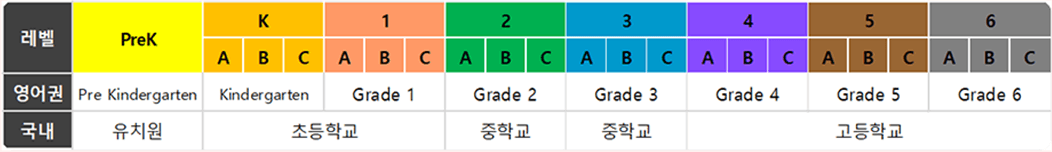
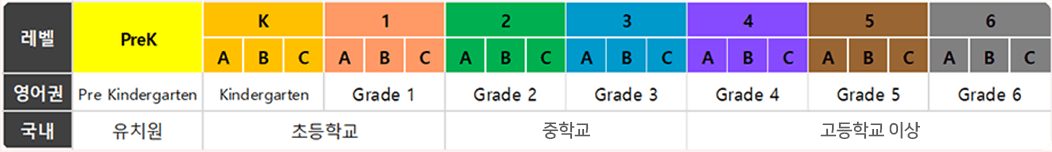
20250729 (11:03)
7년연속 7월 기준으로 이미지 교체
레벨 이미지 수정
하단 배너 수정

Changed region(s): [[0.4563, 0.7895, 0.6388, 0.9211], [0.7605, 0.7895, 0.8821, 0.9211]]

diff --git a/index.html b/index.html
@@ -99,7 +99,7 @@
 
     <!-- 모두가 인정한 리딩게이트-->
     <div class="step03_mo">
-        <img src="img/mo_step03_241016.png" alt="">
+        <img src="img/mo_step03_250729.png" alt="">
     </div>
 
 

diff --git a/style.css b/style.css
@@ -654,6 +654,9 @@ body {
     display: block;
   }
 }
+.step14_mo {
+  background-color: #eff9fb;
+}
 .step14_mo img {
   width: 100%;
   padding-bottom: 56px;

diff --git a/style.scss b/style.scss
@@ -607,6 +607,7 @@ body{
 
 
 .step14_mo{
+  background-color: #eff9fb;
     img{
         width: 100%;
         padding-bottom: 56px;
